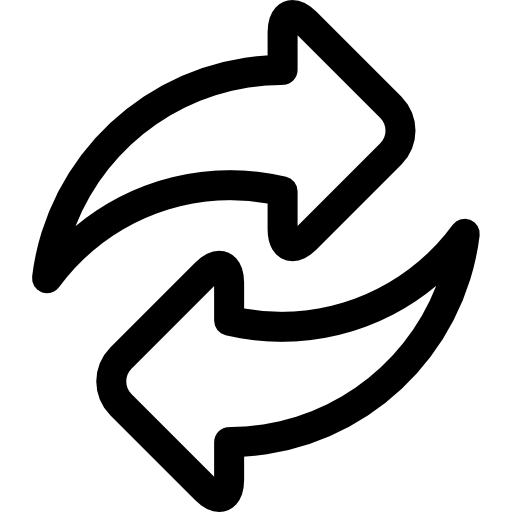
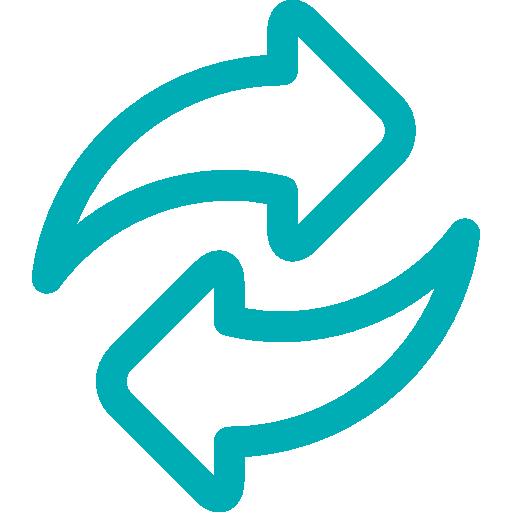
Default skin added, resets table data to "-", changed buttons style.

Changed region(s): [[0.1875, 0.4062, 0.9375, 1.0], [0.0625, 0.0, 0.8125, 0.5938]]

diff --git a/app.js b/app.js
@@ -3,9 +3,9 @@
    var sets, se1, se2, se3, se4, se5, se8, se9;
    var reps, rep1, rep2, rep3, rep4, rep5, rep8, rep9;
    var rest, res1, res2, res3, res4, res5, res8, res9;
-   var or1, or2, or3, or4, or5, or6, or7, or8, or9;
+   var order, or1, or2, or3, or4, or5, or6, or7, or8, or9;
    var weights, wei1, wei2, wei3, wei4, wei5, wei6, wei7, wei8, wei9;
-   var ex1, ex2, ex3, ex4, ex5, ex6, ex7, ex8, ex9;
+   var exercises, ex1, ex2, ex3, ex4, ex5, ex6, ex7, ex8, ex9;
    var buttons, btn1, btn2, btn3, btn4, btn5, btn6, btn7, btn8, btn9;
 
    buttons = [btn1, btn2, btn3, btn4, btn5, btn6, btn7, btn8, btn9];
@@ -53,7 +53,7 @@
    or7 = document.querySelector(".or7");
    or8 = document.querySelector(".or8");
    or9 = document.querySelector(".or9");
-   ord = [or1, or2, or3, or4, or5, or6, or7, or8, or9];
+   order = [or1, or2, or3, or4, or5, or6, or7, or8, or9];
 
    wei1 = document.querySelector(".wei1");
    wei2 = document.querySelector(".wei2");
@@ -76,6 +76,7 @@
    ex7 = document.querySelector(".ex7");
    ex8 = document.querySelector(".ex8");
    ex9 = document.querySelector(".ex9");
+   exercises = [ex1, ex2, ex3, ex4, ex5, ex6, ex7, ex8, ex9];
 
    var containerOne, containerTwo, containerThree, containerFour, containerFive, containerSix, containerSeven, containerEight, containerNine;
 
@@ -650,6 +651,70 @@
          buttons[i] = document.querySelector(".btn" + i).style.display = "none";
       };
    };
+   //Changa data table to 
+   function defStats() {
+
+      or1.innerHTML = "<h3>-</h3>";
+      ex1.innerHTML = "<h3>-</h3>";
+      se1.innerHTML = "<h3>-</h3>";
+      rep1.innerHTML = "<h3>-</h3>";
+      res1.innerHTML = "<h3>-</h3>";
+      wei1.innerHTML = "<h3>-</h3>";
+
+      or2.innerHTML = "<h3>-</h3>";
+      ex2.innerHTML = "<h3>-</h3>";
+      se2.innerHTML = "<h3>-</h3>";
+      rep2.innerHTML = "<h3>-</h3>";
+      res2.innerHTML = "<h3>-</h3>";
+      wei2.innerHTML = "<h3>-</h3>";
+
+      or3.innerHTML = "<h3>-</h3>";
+      ex3.innerHTML = "<h3>-</h3>";
+      se3.innerHTML = "<h3>-</h3>";
+      rep3.innerHTML = "<h3>-</h3>";
+      res3.innerHTML = "<h3>-</h3>";
+      wei3.innerHTML = "<h3>-</h3>";
+
+      or4.innerHTML = "<h3>-</h3>";
+      ex4.innerHTML = "<h3>-</h3>";
+      se4.innerHTML = "<h3>-</h3>";
+      rep4.innerHTML = "<h3>-</h3>";
+      res4.innerHTML = "<h3>-</h3>";
+      wei4.innerHTML = "<h3>-</h3>";
+
+      or5.innerHTML = "<h3>-</h3>";
+      ex5.innerHTML = "<h3>-</h3>";
+      se5.innerHTML = "<h3>-</h3>";
+      rep5.innerHTML = "<h3>-</h3>";
+      res5.innerHTML = "<h3>-</h3>";
+      wei5.innerHTML = "<h3>-</h3>";
+
+      // Doesen't work
+      // for (var i = 0; 1 < 6 ; i++) {
+      //    order[i].innerHTML = "<h3>-</h3>";
+      //    exercises[i].innerHTML = "<h3>-</h3>";
+      //    sets[i].innerHTML = "<h3>-</h3>";
+      //    reps[i].innerHTML = "<h3>-</h3>";
+      //    rest[i].innerHTML = "<h3>-</h3>";
+      //    weights[i].innerHTML = "<h3>-</h3>";  
+      // };
+   };
+
+   function pumpDefault(){
+      or6.innerHTML = "<h3>E1</h3>";
+      ex6.innerHTML = "<h3>-</h3>";
+      se6.innerHTML = "<h3>3</h3>";
+      rep6.innerHTML = "<h3>12-15</h3>";
+      res6.innerHTML = "<h3>10s</h3>";
+      wei6.innerHTML = "<h3>adjust</h3>";
+
+      or7.innerHTML = "<h3>E2</h3>";
+      ex7.innerHTML = "<h3>-</h3>";
+      se7.innerHTML = "<h3>3</h3>";
+      rep7.innerHTML = "<h3>12-15</h3>";
+      res7.innerHTML = "<h3>90s</h3>";
+      wei7.innerHTML = "<h3>adjust</h3>";
+   };
 
    //Show buttons Function
 
@@ -669,14 +734,20 @@
 
       containerSix.style.display = "none";
       containerSeven.style.display = "none";
+      containerEight.style.display = "none";
+      containerNine.style.display = "none";
 
-      for (i = 1; i < 8; i++) {
+      for (i = 1; i < 9; i++) {
          buttons[i] = document.querySelector(".btn" + i).style.display = "inline-block";
       };
 
       document.querySelector(".training-style1").style.display = "block";
       document.querySelector(".training-style2").style.display = "block";
       document.getElementById("super-pump-header").textContent = "Super Pump";
+
+      //All Stats Default
+      defStats();
+      pumpDefault()
    };
 
    //FBW Button

diff --git a/index.html b/index.html
@@ -255,22 +255,22 @@
                         Pump </button>
                 </div>
                 <div class="grid-item or6">
-                    <h3>-</h3>
+                    <h3>E1</h3>
                 </div>
                 <div class="grid-item ex ex6">
                     <h3>-</h3>
                 </div>
                 <div class="grid-item se6">
-                    <h3>-</h3>
+                    <h3>3</h3>
                 </div>
                 <div class="grid-item rep6">
-                    <h3>-</h3>
+                    <h3>12-15</h3>
                 </div>
                 <div class="grid-item res6">
-                    <h3>-</h3>
+                    <h3>10s</h3>
                 </div>
                 <div class="grid-item wei6">
-                    <h3>-</h3>
+                    <h3>adjust</h3>
                 </div>
 
             </div>
@@ -280,22 +280,22 @@
                         Pump </button>
                 </div>
                 <div class="grid-item or7">
-                    <h3>-</h3>
+                    <h3>E2</h3>
                 </div>
                 <div class="grid-item ex ex7">
                     <h3>-</h3>
                 </div>
                 <div class="grid-item se7">
-                    <h3>-</h3>
+                    <h3>3</h3>
                 </div>
                 <div class="grid-item rep7">
-                    <h3>-</h3>
+                    <h3>12-15</h3>
                 </div>
                 <div class="grid-item res7">
-                    <h3>-</h3>
+                    <h3>90s</h3>
                 </div>
                 <div class="grid-item wei7">
-                    <h3>-</h3>
+                    <h3>adjust</h3>
                 </div>
 
             </div>

diff --git a/styles.css b/styles.css
@@ -192,7 +192,7 @@ font-size: 30px;
     
 }
 .pump-container {
-    border-top: 2px solid #00adb5;
+    border-top: 2px solid #393e46;
     padding: 20px 0px 20px;
     height: 70px;
     width: 100%;
@@ -201,10 +201,11 @@ font-size: 30px;
 }
 
 .super-pump {
+    border:2px solid #00adb5;
     color:#eeeeee;
     margin-left: 350px;
     margin-right: 50px;
-    background-color: #00adb5;
+    background-color: #393e46;
     width: 20%;
     float: left;
     padding: 5px 10px 0px;    
@@ -224,11 +225,11 @@ font-size: 30px;
 }
 .super-endurance{
     color:#eeeeee;
-    background-color: #00adb5;
+    background-color: #393e46;
     width: 20%;
     float: left;
     padding: 5px 10px 0px; 
-    
+    border:2px solid #00adb5;
     height: 60px;
     border-radius: 5px;
 }
@@ -280,8 +281,10 @@ color: #eeeeee;
     height: 50px;
     width: 90px;
     border-radius: 5px;
-    background: #00adb5;
+    background: #222831;
 color: #eeeeee;
+border:1px solid #00adb5;
+
 
 }
 
